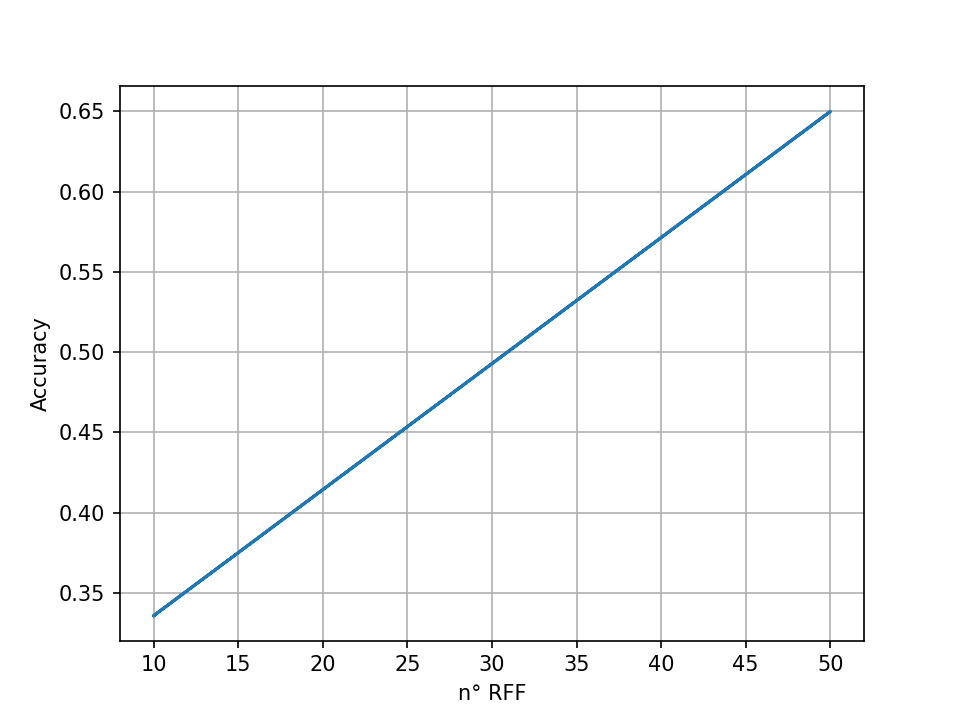
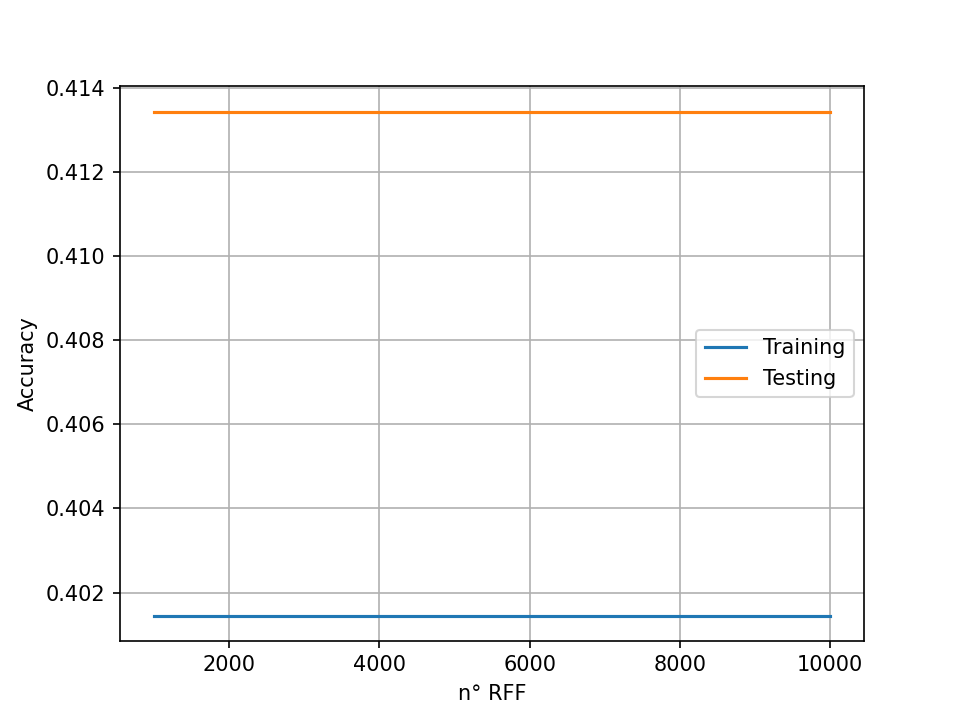
aggiormento

diff --git a/double_descent_l2_regression_MNIST.py b/double_descent_l2_regression_MNIST.py
@@ -10,21 +10,27 @@ import matplotlib.pyplot as plt
 from sklearn.preprocessing import OneHotEncoder
 
 (train_X, train_y), (test_X, test_y) = mnist.load_data()
+
 train_X=train_X.reshape(-1,28*28)/(28*28)
+train_y_onehot = np.zeros((train_y.size, train_y.max()+1))
+train_y_onehot[np.arange(train_y.size),train_y] = 1
+
 test_X=test_X.reshape(-1,28*28)/(28*28)
+test_y_onehot = np.zeros((test_y.size, test_y.max()+1))
+test_y_onehot[np.arange(test_y.size),test_y] = 1
 
 train_acc = []
 test_acc = []
 
 feature_map_fourier = RBFSampler(gamma=.2, random_state=1)
-fourier_approx_svm = pipeline.Pipeline([("feature_map", feature_map_fourier), ("svm", svm.LinearSVC())])
+fourier_approx_linear = pipeline.Pipeline([("feature_map", feature_map_fourier), ("svm",LinearRegression())])
 
-features=[1000,10000,50000,100000]
+features=[1000,1100,1200,1500]
 for D in features:
-    fourier_approx_svm.set_params(feature_map__n_components=D)
-    fourier_approx_svm.fit(train_X, train_y)
-    train_acc.append(fourier_approx_svm.score(train_X, train_y_onehot))
-    test_acc.append(fourier_approx_svm.score(test_X, test_y_onehot))
+    fourier_approx_linear.set_params(feature_map__n_components=D)
+    fourier_approx_linear.fit(train_X, train_y_onehot)
+    train_acc.append(fourier_approx_linear.score(train_X, train_y_onehot))
+    test_acc.append(fourier_approx_linear.score(test_X, test_y_onehot))
 plt.plot(features,train_acc,label='Training')
 plt.plot(features,test_acc,label='Testing')
 plt.xlabel('n° RFF')
